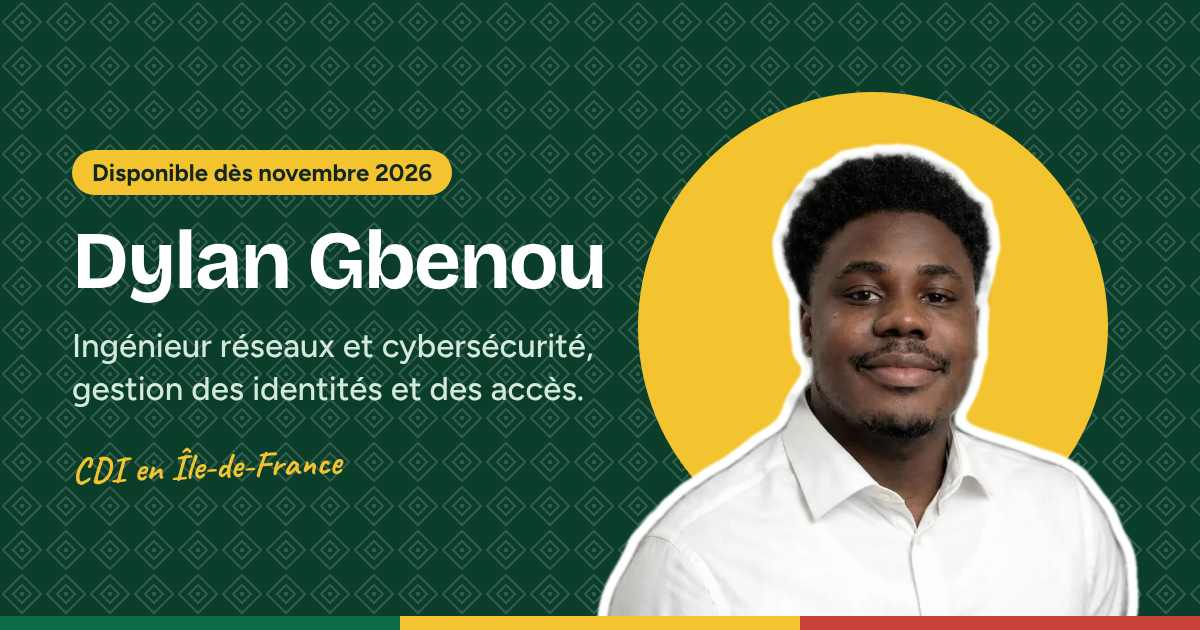
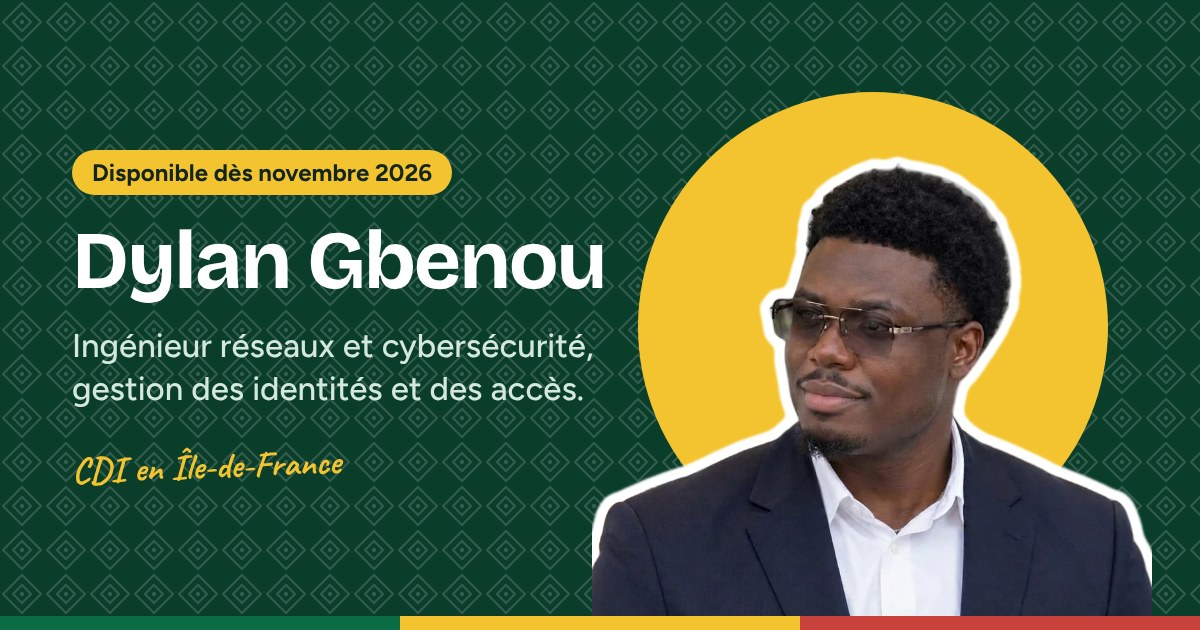
Add files via upload

diff --git a/index.html b/index.html
@@ -24,7 +24,7 @@
   </div>
   <div class="portrait">
     <div class="portrait__back" aria-hidden="true"></div>
-    <div class="portrait__frame"><img class="portrait__img" src="assets/photo-clean.webp" width="860" height="753" alt="Portrait de Dylan Gbenou, en chemise blanche, souriant" fetchpriority="high"></div>
+    <div class="portrait__frame"><img class="portrait__img" src="assets/photo-clean.webp" width="860" height="753" alt="Portrait de Dylan Gbenou, en veste sombre et chemise blanche, lunettes teintées, regardant sur le côté" fetchpriority="high"></div>
     <span class="float float--a"><i></i>Gestion des accès</span><span class="float float--b"><i></i>Réseaux</span><span class="float float--c"><i></i>Cloud</span>
     <div class="hello" aria-hidden="true"><span>Enchanté !</span><svg viewBox="0 0 64 48" fill="none" stroke="currentColor" stroke-width="2.6" stroke-linecap="round" stroke-linejoin="round"><path d="M56 6C38 2 14 12 12 36"/><path d="M4 28l8 9 8-10"/></svg></div>
     <div class="portrait__badge"><svg class="badge" viewBox="0 0 120 120" role="img" aria-label="Réseaux, cybersécurité, IAM, cloud" xmlns="http://www.w3.org/2000/svg"><circle cx="60" cy="60" r="58" fill="#F4C430" stroke="#12261D" stroke-width="2.5"/><defs><path id="bdh" d="M60 60 m-41 0 a41 41 0 1 1 82 0 a41 41 0 1 1 -82 0"/></defs><g class="badge__ring" style="transform-origin:60px 60px"><text font-size="11.5" font-weight="700" fill="#12261D" letter-spacing=".2"><textPath href="#bdh" textLength="255" lengthAdjust="spacing">Réseaux · Cybersécurité · IAM · Cloud · </textPath></text></g><g transform="translate(40 38) scale(1.67)" fill="none" stroke="#12261D" stroke-width="1.7" stroke-linecap="round" stroke-linejoin="round"><path d="M12 3l7 3v5c0 4.5-3 8.3-7 10-4-1.7-7-5.5-7-10V6l7-3z" fill="#fff"/><path d="M9.5 12l2 2 3.5-4"/></g></svg></div>
